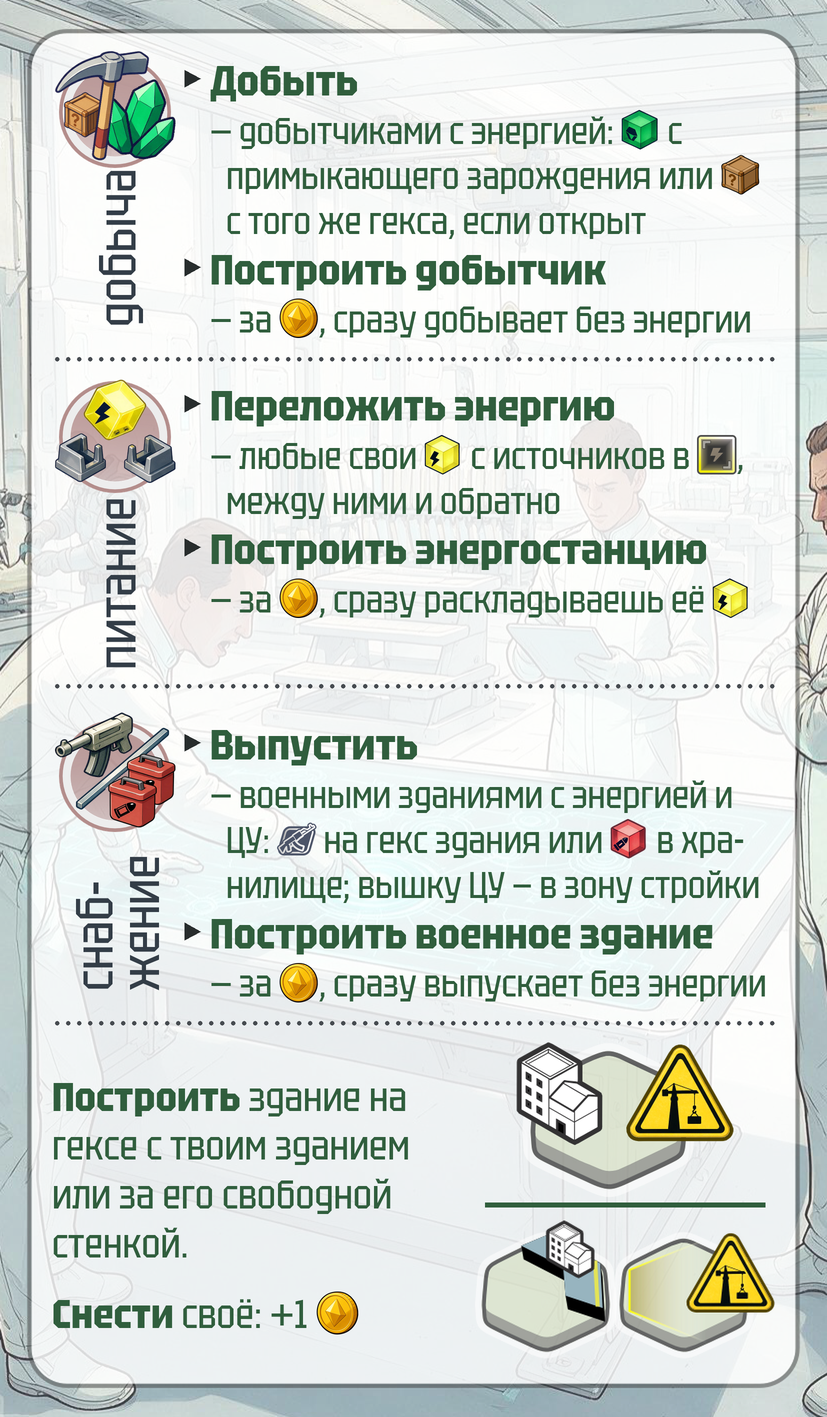
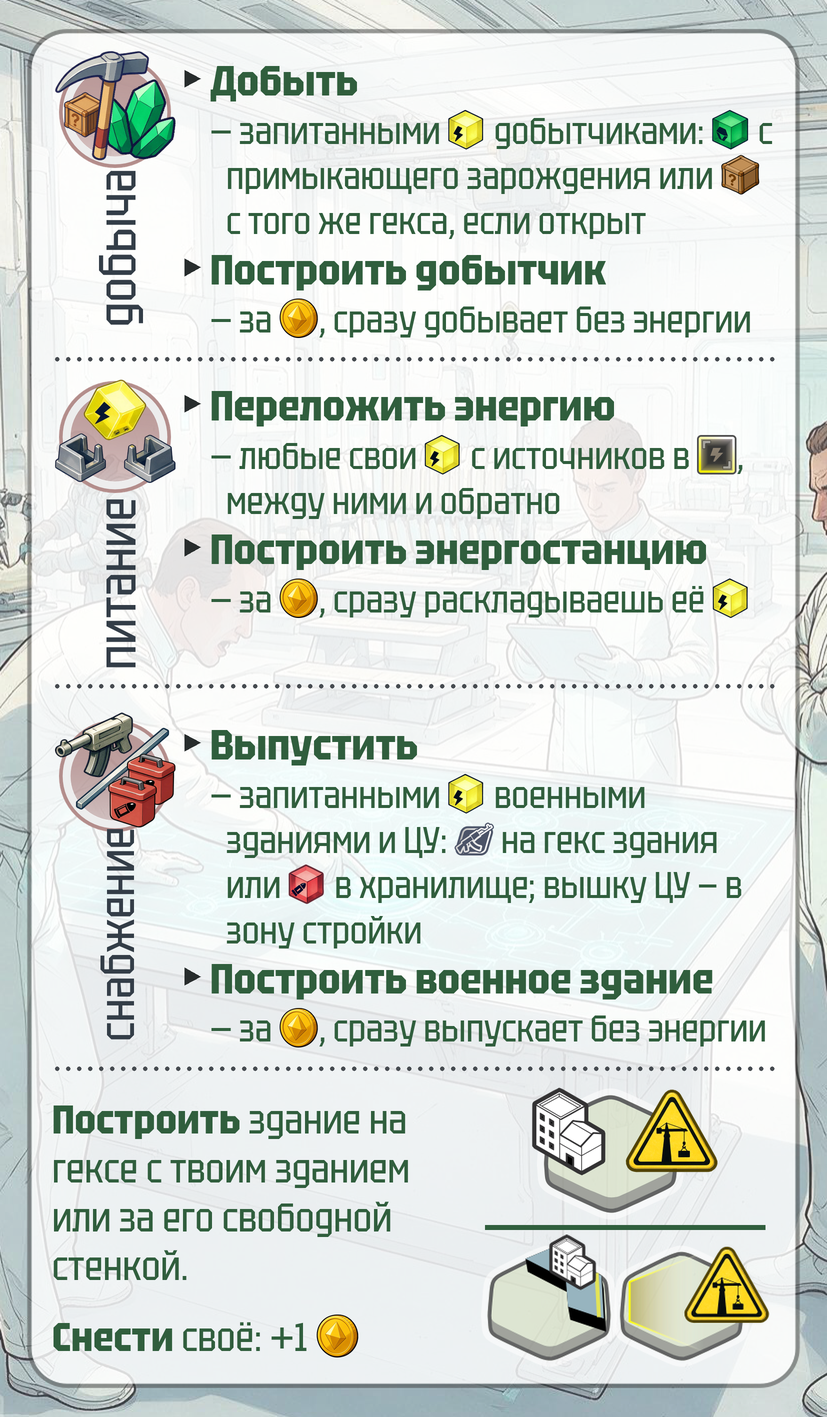
Памятка действий 5.0: «запитанные ⚡» вместо «с энергией»

Changed region(s): [[0.0605, 0.5279, 0.9371, 0.9626], [0.2721, 0.0621, 0.9069, 0.1242]]

diff --git a/tools/gen_memo_5.py b/tools/gen_memo_5.py
@@ -303,7 +303,7 @@ def карточка_1():
     разделы = [
         ('extract', 'добыча', [
             ('ветка', [('ж', 'Добыть')]),
-            ('под', [('т', '− добытчиками с энергией: '), ('и', 'kelium'),
+            ('под', [('т', '− запитанными '), ('и', 'energy'), ('т', ' добытчиками: '), ('и', 'kelium'),
                      ('т', ' с примыкающего зарождения или '), ('и', 'container'),
                      ('т', ' с того же гекса, если открыт')]),
             ('ветка', [('ж', 'Построить добытчик')]),
@@ -319,7 +319,7 @@ def карточка_1():
         ]),
         ('supply', 'снабжение', [
             ('ветка', [('ж', 'Выпустить')]),
-            ('под', [('т', '− военными зданиями с энергией и ЦУ: '), ('и', 'unit'),
+            ('под', [('т', '− запитанными '), ('и', 'energy'), ('т', ' военными зданиями и ЦУ: '), ('и', 'unit'),
                      ('т', ' на гекс здания или '), ('и', 'ammo'), ('т', ' в хранилище; '),
                      ('т', 'вышку ЦУ — в зону стройки')]),
             ('ветка', [('ж', 'Построить военное здание')]),
